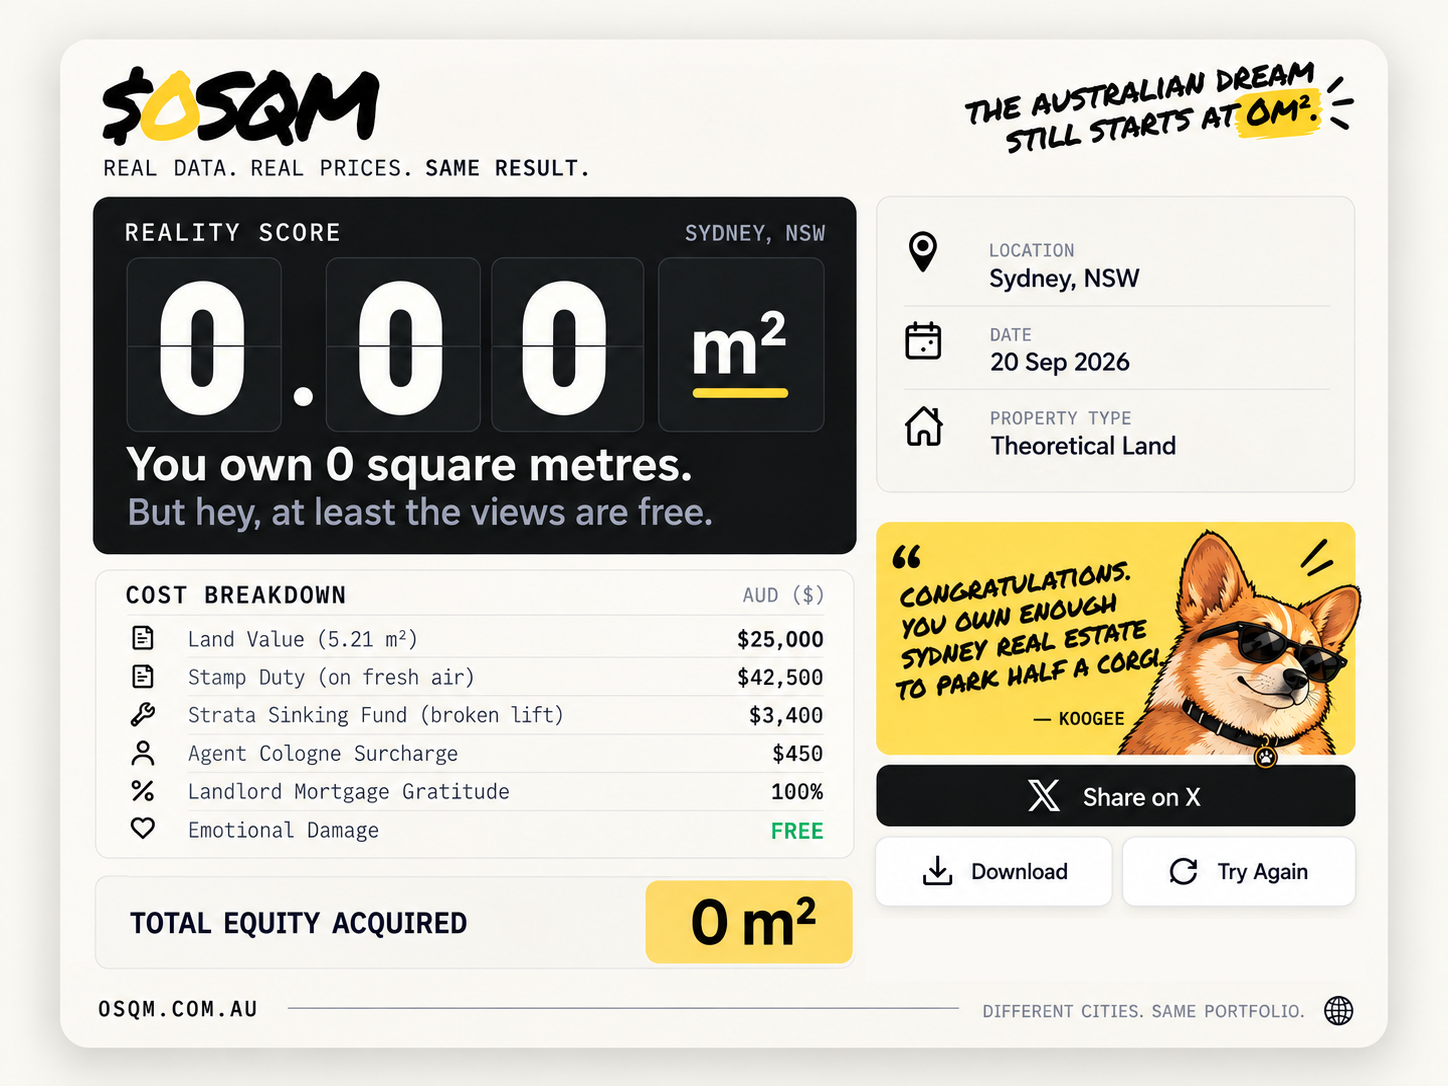
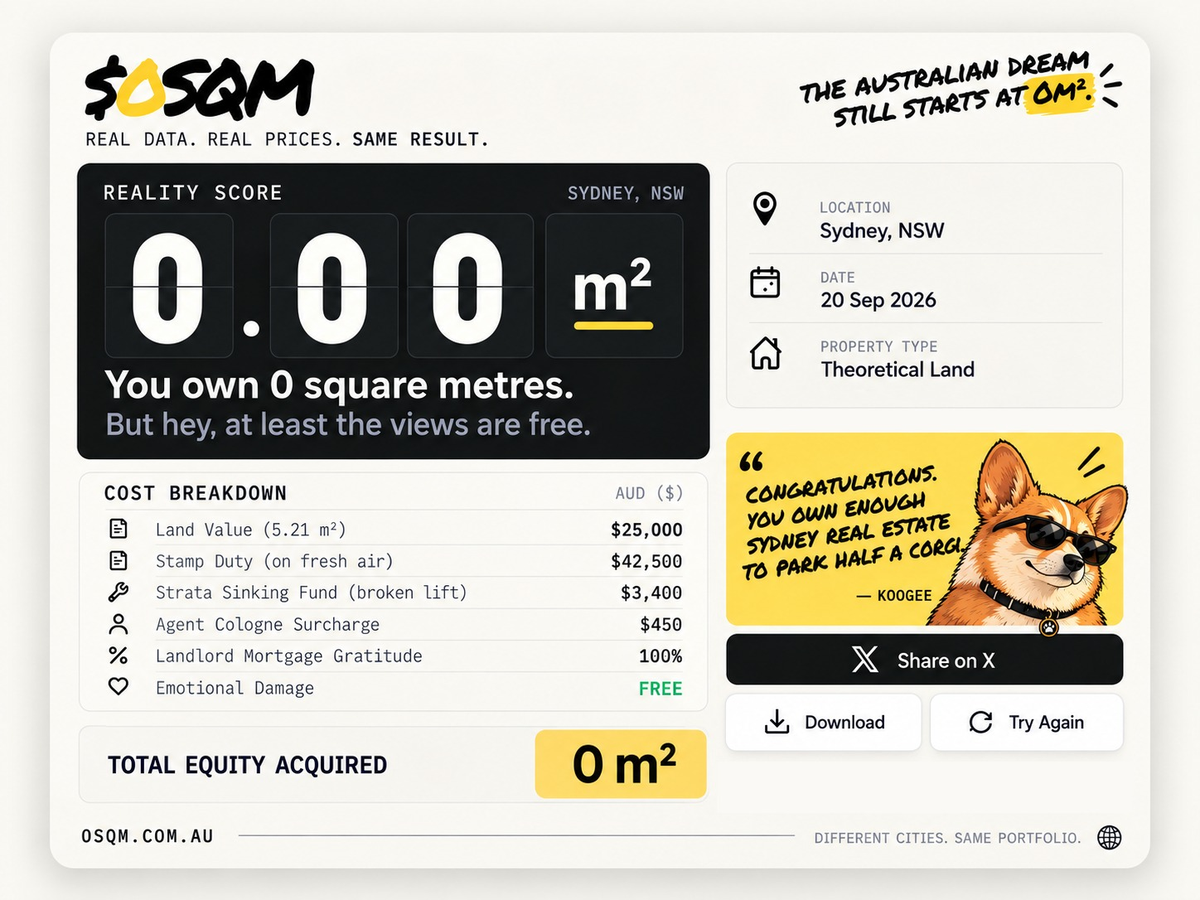
Optimize Twitter card image to 230KB and use v3 URL to bypass 1MB mobile limit and old cache

diff --git a/src/app/v2/page.tsx b/src/app/v2/page.tsx
@@ -691,7 +691,7 @@ export default function V2Page() {
   const handleShareOnX = () => {
     const cleanSqm = affordableSqm.toFixed(2);
     const tweetText = `#MySquareMeter is ${cleanSqm} m².\nI joined the @Own0SQM club too. #0SQM`;
-    const shareUrl = `https://0sqm.com/share?city=${encodeURIComponent(currentCity.name)}&sqm=${cleanSqm}`;
+    const shareUrl = `https://0sqm.com/share?city=${encodeURIComponent(currentCity.name)}&sqm=${cleanSqm}&v=3`;
     const tweetUrl = `https://x.com/intent/tweet?text=${encodeURIComponent(tweetText)}&url=${encodeURIComponent(shareUrl)}`;
     window.open(tweetUrl, "_blank", "noopener,noreferrer");
   };

diff --git a/public/share.php b/public/share.php
@@ -8,7 +8,7 @@ $state = isset($_GET['state']) ? trim(strip_tags($_GET['state'])) : 'NSW';
 
 $title = "$city Reality Score: {$sqm} m² in theory. 0 m² in reality. — $0SQM";
 $desc = "I saved \${$savings} and officially own 0 SQM in {$city}. Different city. Same portfolio. The viral housing reality check.";
-$cardImage = "https://0sqm.com/images/reality-score-card.png?v=2";
+$cardImage = "https://0sqm.com/images/reality-score-card-v3.jpg";
 ?>
 <!DOCTYPE html>
 <html lang="en">
@@ -24,8 +24,10 @@ $cardImage = "https://0sqm.com/images/reality-score-card.png?v=2";
   <meta property="og:title" content="<?php echo htmlspecialchars($title); ?>">
   <meta property="og:description" content="<?php echo htmlspecialchars($desc); ?>">
   <meta property="og:image" content="<?php echo $cardImage; ?>">
-  <meta property="og:image:width" content="1448">
-  <meta property="og:image:height" content="1086">
+  <meta property="og:image:secure_url" content="<?php echo $cardImage; ?>">
+  <meta property="og:image:type" content="image/jpeg">
+  <meta property="og:image:width" content="1200">
+  <meta property="og:image:height" content="900">
   <meta property="og:site_name" content="$0SQM">
 
   <!-- Twitter Card -->
